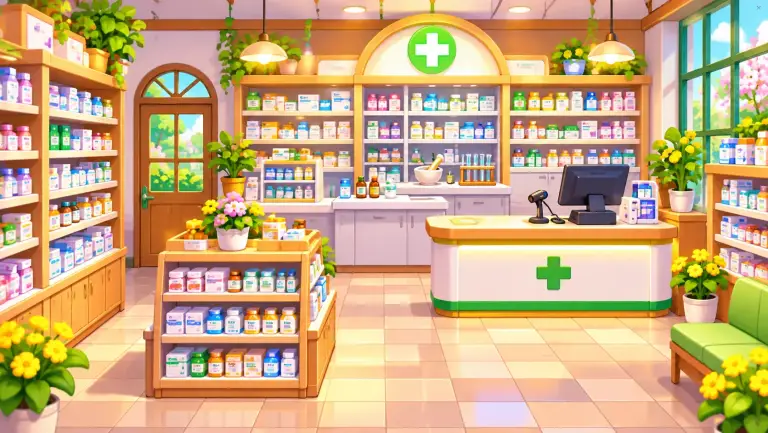
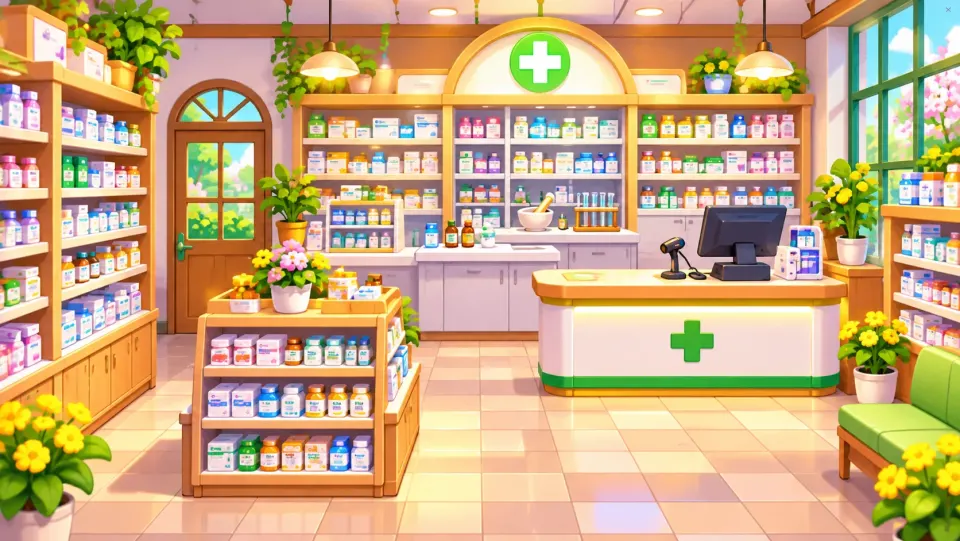
feat: 건물 내부 이미지 9종 전용화 및 PC/모바일 재최적화
병원·학교·회사·상가 4종의 전용 내부 이미지를 추가로 받아, 기존
상가=가게/학교=교실(공용 자산) 대체를 걷어내고 9종 건물 유형 전부
전용 이미지를 쓰도록 했다. 동시에 지시서가 새로 준 해상도/용량
기준(PC 최대 1600×900, 모바일 최대 960×540, 1장당 100~200KB)에 맞춰
9종 전체를 cwebp 품질 72~80으로 다시 압축했다 — PC 9장 합계
1.41MB(목표 1.8MB 이하), 모바일 9장 합계 761KB.

Claude-Session: https://claude.ai/code/session_0147gyB22aSAk9fSKyzkfUcQ

diff --git a/src/data/buildingInteriors.ts b/src/data/buildingInteriors.ts
@@ -1,5 +1,12 @@
 import type { BuildingType } from './buildingTypes'
-import { STORE_INTERIOR_SRC, CLASSROOM_INTERIOR_SRC } from './lifeEventAssets'
+import storePc from '../assets/grow/town/interiors/store-interior-pc.webp'
+import storeMobile from '../assets/grow/town/interiors/store-interior-mobile.webp'
+import officePc from '../assets/grow/town/interiors/office-interior-pc.webp'
+import officeMobile from '../assets/grow/town/interiors/office-interior-mobile.webp'
+import schoolPc from '../assets/grow/town/interiors/school-interior-pc.webp'
+import schoolMobile from '../assets/grow/town/interiors/school-interior-mobile.webp'
+import hospitalPc from '../assets/grow/town/interiors/hospital-interior-pc.webp'
+import hospitalMobile from '../assets/grow/town/interiors/hospital-interior-mobile.webp'
 import pharmacyPc from '../assets/grow/town/interiors/pharmacy-interior-pc.webp'
 import pharmacyMobile from '../assets/grow/town/interiors/pharmacy-interior-mobile.webp'
 import factoryPc from '../assets/grow/town/interiors/factory-interior-pc.webp'
@@ -16,18 +23,17 @@ export interface BuildingInterior {
   mobile: string
 }
 
-// 지시서("건물 내부 이미지 9종 삽입 및 초경량 최적화"): 건물 유형별
-// 내부 이미지 — PC(최대 1280px 가로)/모바일(최대 768px 가로) 두
-// 해상도로 미리 최적화해 둔(WebP, cwebp 품질 65~72) 자산을 srcset으로
-// 제공해 화면 크기에 맞는 파일만 받게 한다. 상가(store)·학교(school)는
-// 기존 lifeEventAssets의 store/classroom 내부 이미지(식사·심부름
-// 이벤트에서도 재사용 중)를 그대로 쓰고, 전용 이미지가 없는
-// 회사·병원은 "공통 건물" 원칙과 동일하게 상가 내부로 대체한다.
+// 지시서("누리AI 건물 내부 이미지 9종 적용 및 초경량 최적화"): 9종
+// 건물 유형 전부 전용 내부 이미지를 쓴다 — PC(최대 1600×900)/
+// 모바일(최대 960×540) 두 해상도로 미리 최적화해 둔(WebP, cwebp 품질
+// 72~80) 자산을 srcset으로 제공해 화면 크기에 맞는 파일만 받게 한다.
+// 이 9장은 식사·심부름 이벤트가 쓰는 lifeEventAssets의 store/classroom
+// 이미지와는 별개 파일이다(건물 내부 전용, 서로 영향 없음).
 export const BUILDING_TYPE_INTERIOR: Record<BuildingType, BuildingInterior> = {
-  store: { pc: STORE_INTERIOR_SRC, mobile: STORE_INTERIOR_SRC },
-  office: { pc: STORE_INTERIOR_SRC, mobile: STORE_INTERIOR_SRC },
-  hospital: { pc: STORE_INTERIOR_SRC, mobile: STORE_INTERIOR_SRC },
-  school: { pc: CLASSROOM_INTERIOR_SRC, mobile: CLASSROOM_INTERIOR_SRC },
+  store: { pc: storePc, mobile: storeMobile },
+  office: { pc: officePc, mobile: officeMobile },
+  school: { pc: schoolPc, mobile: schoolMobile },
+  hospital: { pc: hospitalPc, mobile: hospitalMobile },
   pharmacy: { pc: pharmacyPc, mobile: pharmacyMobile },
   factory: { pc: factoryPc, mobile: factoryMobile },
   religious: { pc: religiousPc, mobile: religiousMobile },
